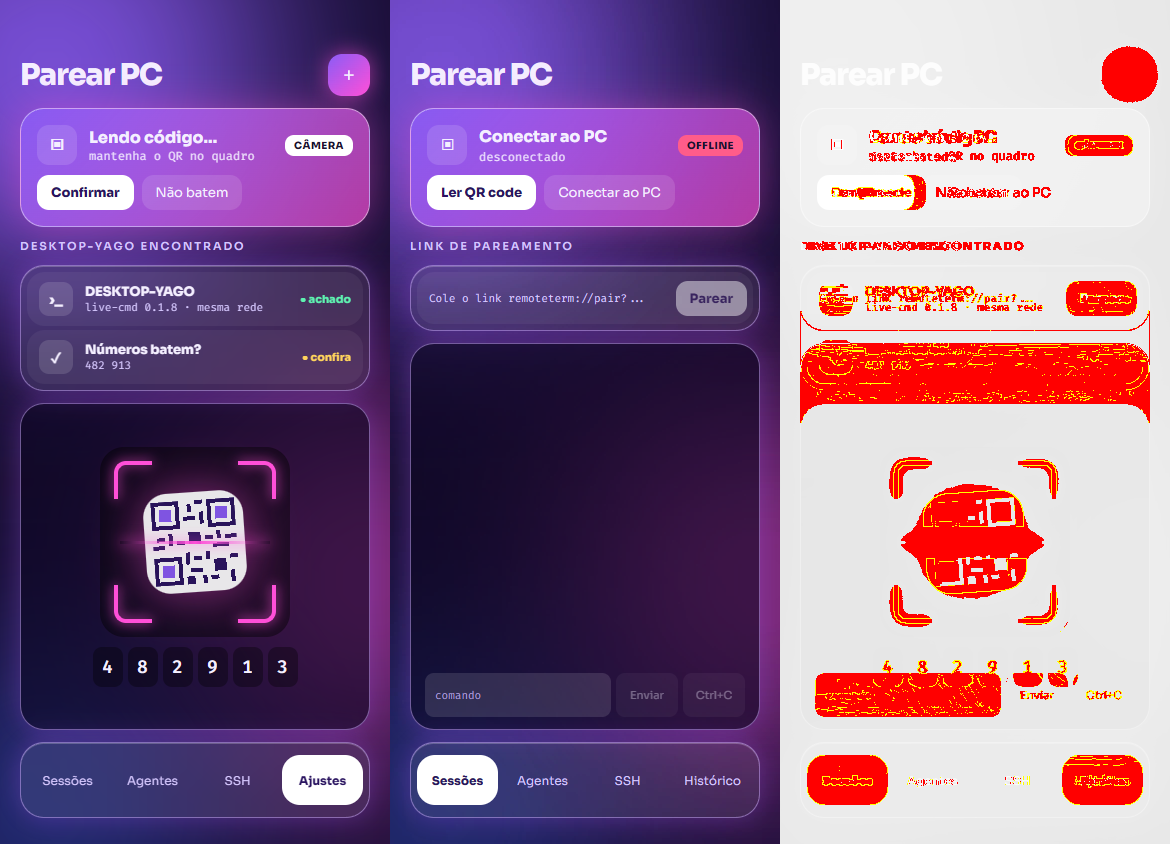
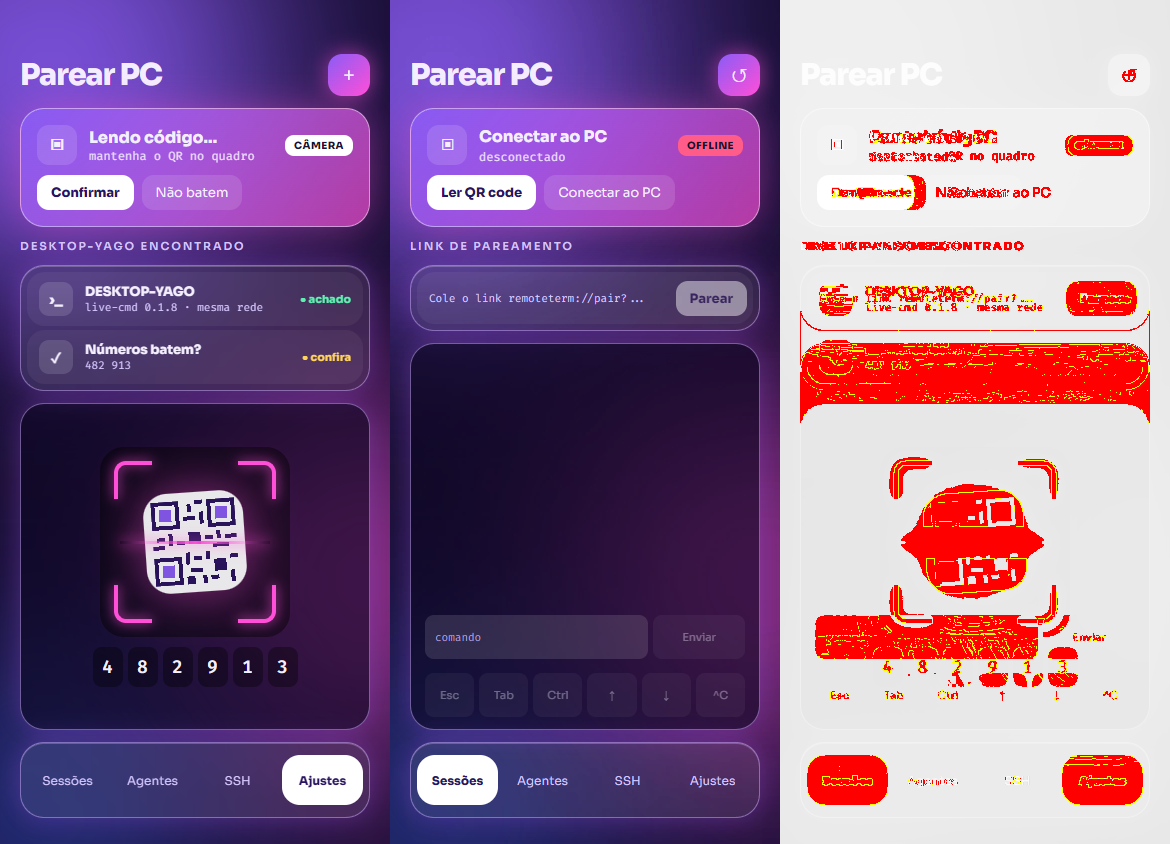
test(mobile): demo e comparação com Ajustes e Abas

diff --git a/mobile/demo/DemoApp.tsx b/mobile/demo/DemoApp.tsx
@@ -14,9 +14,11 @@ import { SessionsScreen } from '../src/screens/SessionsScreen.tsx';
 import { AgentsScreen } from '../src/screens/AgentsScreen.tsx';
 import { SshScreen } from '../src/screens/SshScreen.tsx';
 import { HistoryScreen } from '../src/screens/HistoryScreen.tsx';
+import { SettingsScreen } from '../src/screens/SettingsScreen.tsx';
+import { DEFAULT_PREFS } from '../src/prefs.ts';
 
-export type DemoName = 'terminal' | 'pareamento' | 'erro' | 'agentes' | 'ssh' | 'historico';
-export const DEMOS: DemoName[] = ['terminal', 'pareamento', 'erro', 'agentes', 'ssh', 'historico'];
+export type DemoName = 'terminal' | 'pareamento' | 'erro' | 'agentes' | 'ssh' | 'historico' | 'ajustes';
+export const DEMOS: DemoName[] = ['terminal', 'pareamento', 'erro', 'agentes', 'ssh', 'historico', 'ajustes'];
 
 const NOW = new Date(2026, 10, 17, 23, 50).getTime();
 const at = (daysAgo: number, h: number, m: number) => {
@@ -37,6 +39,10 @@ const SERVERS: SshServer[] = [
   { serverId: 's2', label: 'staging', host: '10.0.0.12', user: 'deploy', port: 22, key: null, latencyMs: 18, status: 'ok' },
 ];
 const SSH_SESSIONS: SshSession[] = [];
+const HOST_SESSIONS = [
+  { session_id: 'demo', label: 'claude · live-cmd', state: 'running', last_activity_ms: 0 },
+  { session_id: 'pw', label: 'pwsh', state: 'running', last_activity_ms: 0 },
+];
 const HISTORY: HistoryEntry[] = [
   { entryId: 'h1', command: 'git push origin claude/mockups', cwd: 'S:\\Projetos\\live-cmd', atMs: at(0, 23, 41), exitCode: 0, kind: 'pwsh', label: 'pwsh', pc: 'DESKTOP-YAGO' },
   { entryId: 'h2', command: 'git push --tags', cwd: 'S:\\Projetos\\live-cmd', atMs: at(0, 22, 8), exitCode: 128, kind: 'pwsh', label: 'pwsh', pc: 'DESKTOP-YAGO' },
@@ -63,6 +69,7 @@ const fake = {
   extra: async (body: Record<string, unknown>) => {
     switch (body.type) {
       case 'agent_list': return { agents: AGENTS_DATA };
+      case 'session_list': return { sessions: HOST_SESSIONS, profiles: [] };
       case 'ssh_list': return { servers: SERVERS, sessions: SSH_SESSIONS };
       case 'history_query': {
         const q = String(body.query ?? '').toLowerCase();
@@ -73,14 +80,16 @@ const fake = {
   },
 } as unknown as Conn;
 
-const TAB_OF: Record<DemoName, Tab> = { terminal: 'sessoes', pareamento: 'sessoes', erro: 'sessoes', agentes: 'agentes', ssh: 'ssh', historico: 'historico' };
+const TAB_OF: Record<DemoName, Tab> = { terminal: 'sessoes', pareamento: 'sessoes', erro: 'sessoes', agentes: 'agentes', ssh: 'ssh', historico: 'sessoes', ajustes: 'ajustes' };
+const PIN = { hostPk: '', room: '', server: 'live-cmd-signaling' };
 const noop = () => {};
 
 export function DemoScreen({ name }: { name: DemoName }) {
   const tab = TAB_OF[name];
   const sessions = (status: string, on: boolean, out: string) => (
     <SessionsScreen status={status} on={on} pin={on ? null : { hostPk: '', room: '', server: '' }} out={out} link="" setLink={noop}
-      onPair={noop} onScan={noop} onReconnect={noop} onDisconnect={noop} send={noop} />
+      onPair={noop} onScan={noop} onReconnect={noop} onDisconnect={noop} send={noop}
+      conn={on ? fake : null} onOpen={async () => {}} onHistory={noop} />
   );
   return (
     <Shell bar={<TabBar tab={tab} onChange={noop} />}>
@@ -90,6 +99,7 @@ export function DemoScreen({ name }: { name: DemoName }) {
       {name === 'agentes' && <AgentsScreen conn={fake} onOpen={async () => {}} />}
       {name === 'ssh' && <SshScreen conn={fake} onOpen={async () => {}} />}
       {name === 'historico' && <HistoryScreen conn={fake} onRan={noop} />}
+      {name === 'ajustes' && <SettingsScreen conn={fake} pin={PIN} status="conectado" prefs={{ ...DEFAULT_PREFS, termFont: 13 }} setPrefs={noop} onOpenTerminals={noop} onUnpair={noop} />}
     </Shell>
   );
 }
